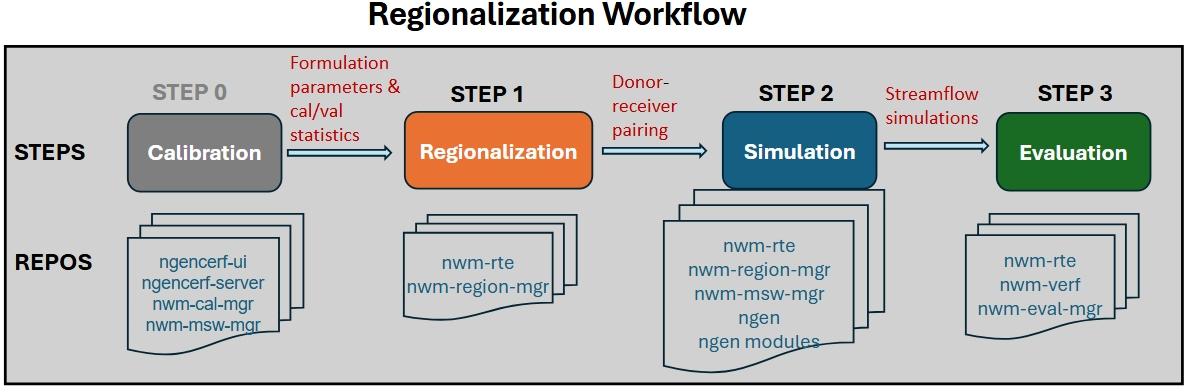
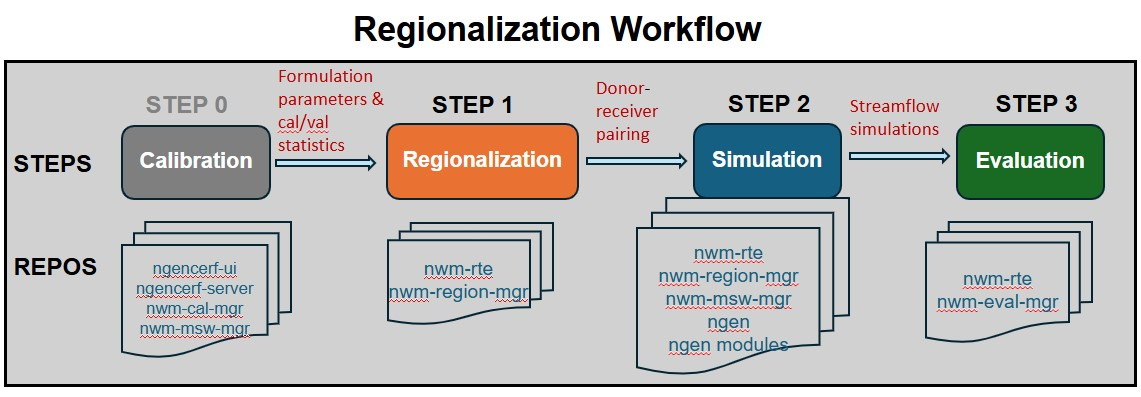
update README and documentation to remove references to nwm-verf

diff --git a/docs/source/user_guide.md b/docs/source/user_guide.md
@@ -6,7 +6,7 @@ The regionalization workflow includes the following steps:
  - **STEP 0**: run calibration and collect formulation prameters and calibration/validation statistics
  - **STEP 1**: formulation & parameter regionalization (via nwm-region-mgr)
  - **STEP 2**: regionalized NGEN simulation setup (via nwm-mswm-mgr) and execution
- - **STEP 3**: evaluation of regionalized simulations (via nwm-verf and nwm-eval-mgr)
+ - **STEP 3**: evaluation of regionalized simulations (via nwm-eval-mgr)
 
 ![Regionalization Workflow](_images/regionalization_workflow.jpeg)
 
@@ -225,8 +225,8 @@ Update the `configs/config_eval.yaml` file as follows:
  - Set **file_paths.output_dir** to point to the directory where evaluation outputs should be saved. Here we add the **run_name** from regionalization `test1` (e.g., `'{base_dir}/outputs/eval/test1/{location_set_name}'`), to ensure evaluation outputs are also organized by regionalization runs.
  - Update fields in metics and plotting sections as desired. Here we will compute and plot a set of default evaluation metrics: KGE (Kling-Gupta Efficiency), NSE (Nash-Sutcliffe Efficiency), NNSE (Normalized NSE), and Correlation (CORR). Note the **lead_times** fields are not applicable here since we are evaluating simulations.
 
-Note: if you would like to explore other configuration options for evaluation, refer to the [nwm.verf documentation](
-https://confluence.nextgenwaterprediction.com/spaces/NGWPC/pages/54132769/Forecast+Verification+nwm-verf+Configuration)
+Note: if you would like to explore other configuration options for evaluation, refer to [nwm-eval-mgr documentation](
+https://ngwpc.github.io/nwm-eval-mgr/index.html) for details.
 
 Run the evaluation step as in Step 3 above.
 ```bash
@@ -242,7 +242,7 @@ After completion, evaluation results will be saved in the folder `data/outputs/e
  - `test1_gower/ngen_simulation/`: streamflow time series data for all locations using gower method
  - `test1_kmeans/ngen_simulation/`: streamflow time series data for all locations using kmeans method
  - `usgs/`: observed streamflow time series data for all locations
- - `nwm_verf_config_expanded.yaml`: the final (expanded) configuration file used in this run.
+ - `nwm_eval_config_expanded.yaml`: the final (expanded) configuration file used in this run.
 
 Check the metrics and plots to compare/analyze the performance of the two algorithms in parameter regionalization.
 
@@ -661,28 +661,26 @@ python -m nwm_region_mgr configs parreg # to run parameter regionalization (and 
 
 ### STEP 2: Run NGEN simulation with regionalized parameters
 
-To void complications from building ngen and its submodules locally, we recommend you always run NGEN simulation 
+To avoid complications from building ngen and its submodules locally, we recommend you always run NGEN simulation
 with regionalized parameters and formulations from a Docker container. Follow instructions from the **Docker Run Time Environment (RTE)** section above. 
 
-### STEP 3: Evaluate NGEN simulation with nwm.verf
+### STEP 3: Evaluate NGEN simulation with nwm-eval-mgr
 
-#### 1) Donwload and install [nwm.verf](https://github.com/NGWPC/nwm-verf)
-It is recommentded you install nwm.verf in its own venv. Note [nwm.eval](https://github.com/NGWPC/nwm-eval-mgr) needs to installed as a dependency
+#### 1) Download and install [nwm-eval-mgr](https://github.com/NGWPC/nwm-eval-mgr)
+It is recommended you install nwm-eval-mgr in its own venv. 
 
 #### 2) Set up configurations for evaluation
-Follow example config at [config_eval.yaml](https://github.com/NGWPC/nwm-region-mgr/blob/development/sample_files/configs/config_eval.yaml)
-
-Check out what metrics are currently supported [here](https://confluence.nextgenwaterprediction.com/display/NGWPC/Forecast+Verification+%28ngen-verf%29%3A+Configuration)
+Follow example config at [config_eval.yaml](https://github.com/NGWPC/nwm-region-mgr/blob/development/configs/config_eval.yaml)
 
 Sample input data can be downloaded from **s3://ngwpc-dev/regionalization/data/inputs/eval** 
 
-#### 3) Activate venv for nwm.verf
+#### 3) Activate venv for nwm-eval-mgr
 ```bash
-source ~/repos/nwm-verf/venv/bin/activate
+source ~/repos/nwm-eval-mgr/venv/bin/activate
 ```
 #### 4) Run evaluation
 ```bash
-python -m nwm.verf config_eval.yaml
+python -m nwm_eval config_eval.yaml
 ```
 #### 5) Check outputs
 Outputs from evaluation can be found in *[output_dir]* as specified in **config_eval.yaml**

diff --git a/README.md b/README.md
@@ -162,36 +162,27 @@ python -m nwm_region_mgr configs region # to run parameter regionalization (and 
 To void complications from building ngen and its submodules locally, we recommend you always run NGEN simulation 
 with regionalized parameters and formulations from a Docker container. Follow instructions from the **Docker Run Time Environment (RTE)** section above. 
 
-### STEP 3: Evaluate NGEN simulation with nwm.verf
+### STEP 3: Evaluate NGEN simulation with nwm-eval-mgr
 
-#### 1) Donwload and install [nwm.verf](https://github.com/NGWPC/nwm-verf)
-It is recommentded you install nwm.verf in its own venv. Note [nwm.eval](https://github.com/NGWPC/nwm-eval-mgr) needs to installed as a dependency
+#### 1) Download and install [nwm-eval-mgr](https://github.com/NGWPC/nwm-eval-mgr)
+It is recommended you install nwm-eval-mgr in its own venv. 
 
 #### 2) Set up configurations for evaluation
-Follow example config at [config_eval.yaml](https://github.com/NGWPC/nwm-region-mgr/blob/development/sample_files/configs/config_eval.yaml)
-
-Check out what metrics are currently supported [here](https://confluence.nextgenwaterprediction.com/display/NGWPC/Forecast+Verification+%28ngen-verf%29%3A+Configuration)
+Follow example config at [config_eval.yaml](https://github.com/NGWPC/nwm-region-mgr/blob/development/configs/config_eval.yaml
 
 Sample input data can be downloaded from **s3://ngwpc-dev/regionalization/data/inputs/eval** 
 
-#### 3) Activate venv for nwm.verf
+#### 3) Activate venv for nwm-eval-mgr
 ```bash
-source ~/repos/nwm-verf/venv/bin/activate
+source ~/repos/nwm-eval-mgr/venv/bin/activate
 ```
 #### 4) Run evaluation
 ```bash
-python -m nwm.verf config_eval.yaml
+python -m nwm_eval config_eval.yaml
 ```
 #### 5) Check outputs
 Outputs from evaluation can be found in *[output_dir]* as specified in **config_eval.yaml**
 
-
-### Test regionalization for other VPUs or different formulations
-
-- Create pseudo forcing data by recycling existing forcing files, using this [script](https://github.com/NGWPC/nwm-region-mgr/blob/yliu_NGPWC-6984/util_scripts/run_create_pseudo_forcing_csv.sh)
-- Create new pseduo calibration/validation stats for different formulations, using this [script](https://github.com/NGWPC/nwm-region-mgr/blob/yliu_NGPWC-6984/util_scripts/run_create_pseudo_calval_stats.sh)
-- Create geopackages for a new VPU using this [script](https://github.com/NGWPC/nwm-region-mgr/blob/yliu_NGPWC-6984/util_scripts/subset_conus_gpkg_by_vpu.py)
-- Create gage list files and NGEN divide-gage crosswalk file for a new domain using this [script](https://github.com/NGWPC/nwm-verf/blob/yliu_NGWPC-6986/utils/create_ngen_crosswalk_regionalization.py)
 
 ## Testing
 
